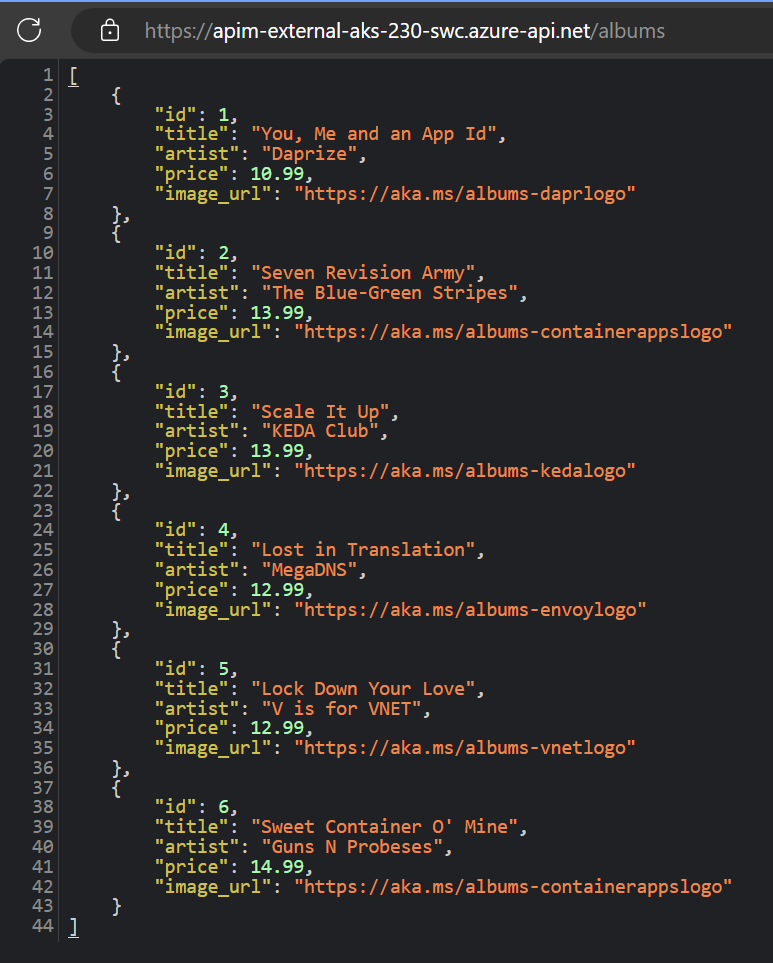
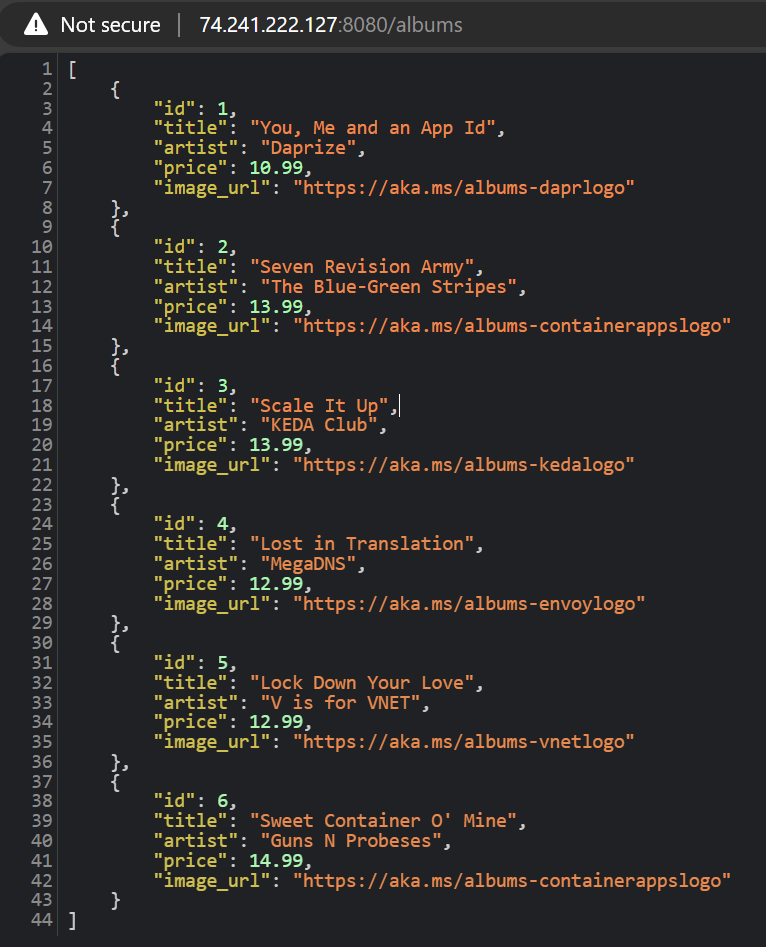
created 231 aks apim self hosted gateway

diff --git a/231_aks_apim_self_hosted_gateway/readme.md b/231_aks_apim_self_hosted_gateway/readme.md
@@ -1,4 +1,4 @@
-# Exposing AKS applications using API Management
+# Exposing AKS applications using API Management Self Hosted Gateway
 
 ## Introduction
 
